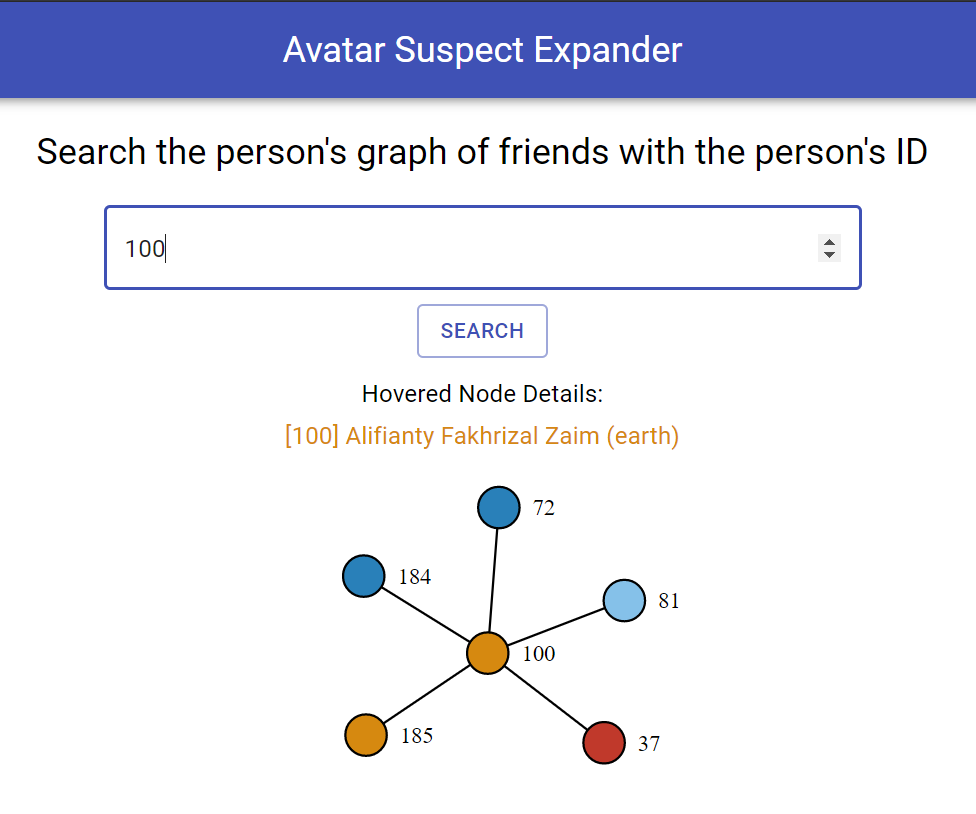
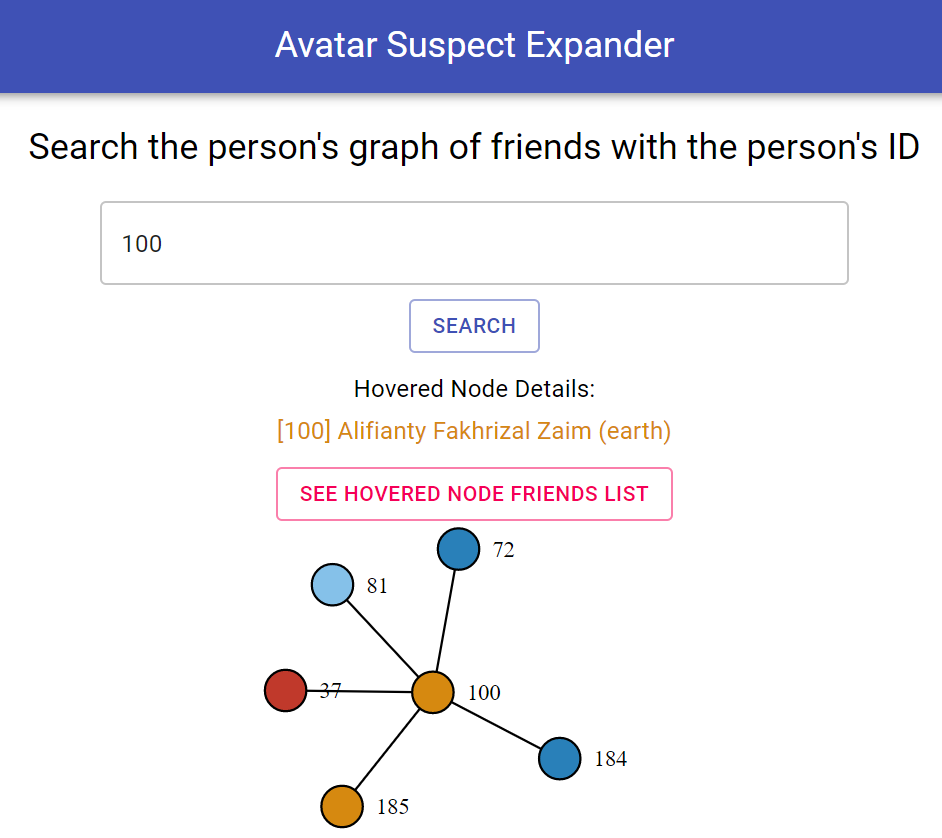
Edit Readme

diff --git a/README.md b/README.md
@@ -56,10 +56,13 @@ You can then hover on a node to see it's detail such as ID, name, and the elemen
 
 ![HoverNode](./assets/HoverNode.png)
 
-You can also click on a node to see his/her friend's list.
+click the button below it to see it's friends list
 
 ![FriendsList](./assets/FriendsList.png)
 
+You can also click a node to expand the relationship.
+
+![ExpandGraph](./assets/ExpandGraph.png)
 
 ## API Review
 
@@ -76,3 +79,4 @@ According to my analysis, this API gives us a valid tuple of (ID, name, element)
 - [material-ui](https://material-ui.com/)
 - [axios](https://www.npmjs.com/package/axios)
 - [react-d3-graph](https://www.npmjs.com/package/react-d3-graph)
+- [react-responsive](https://github.com/contra/react-responsive)
